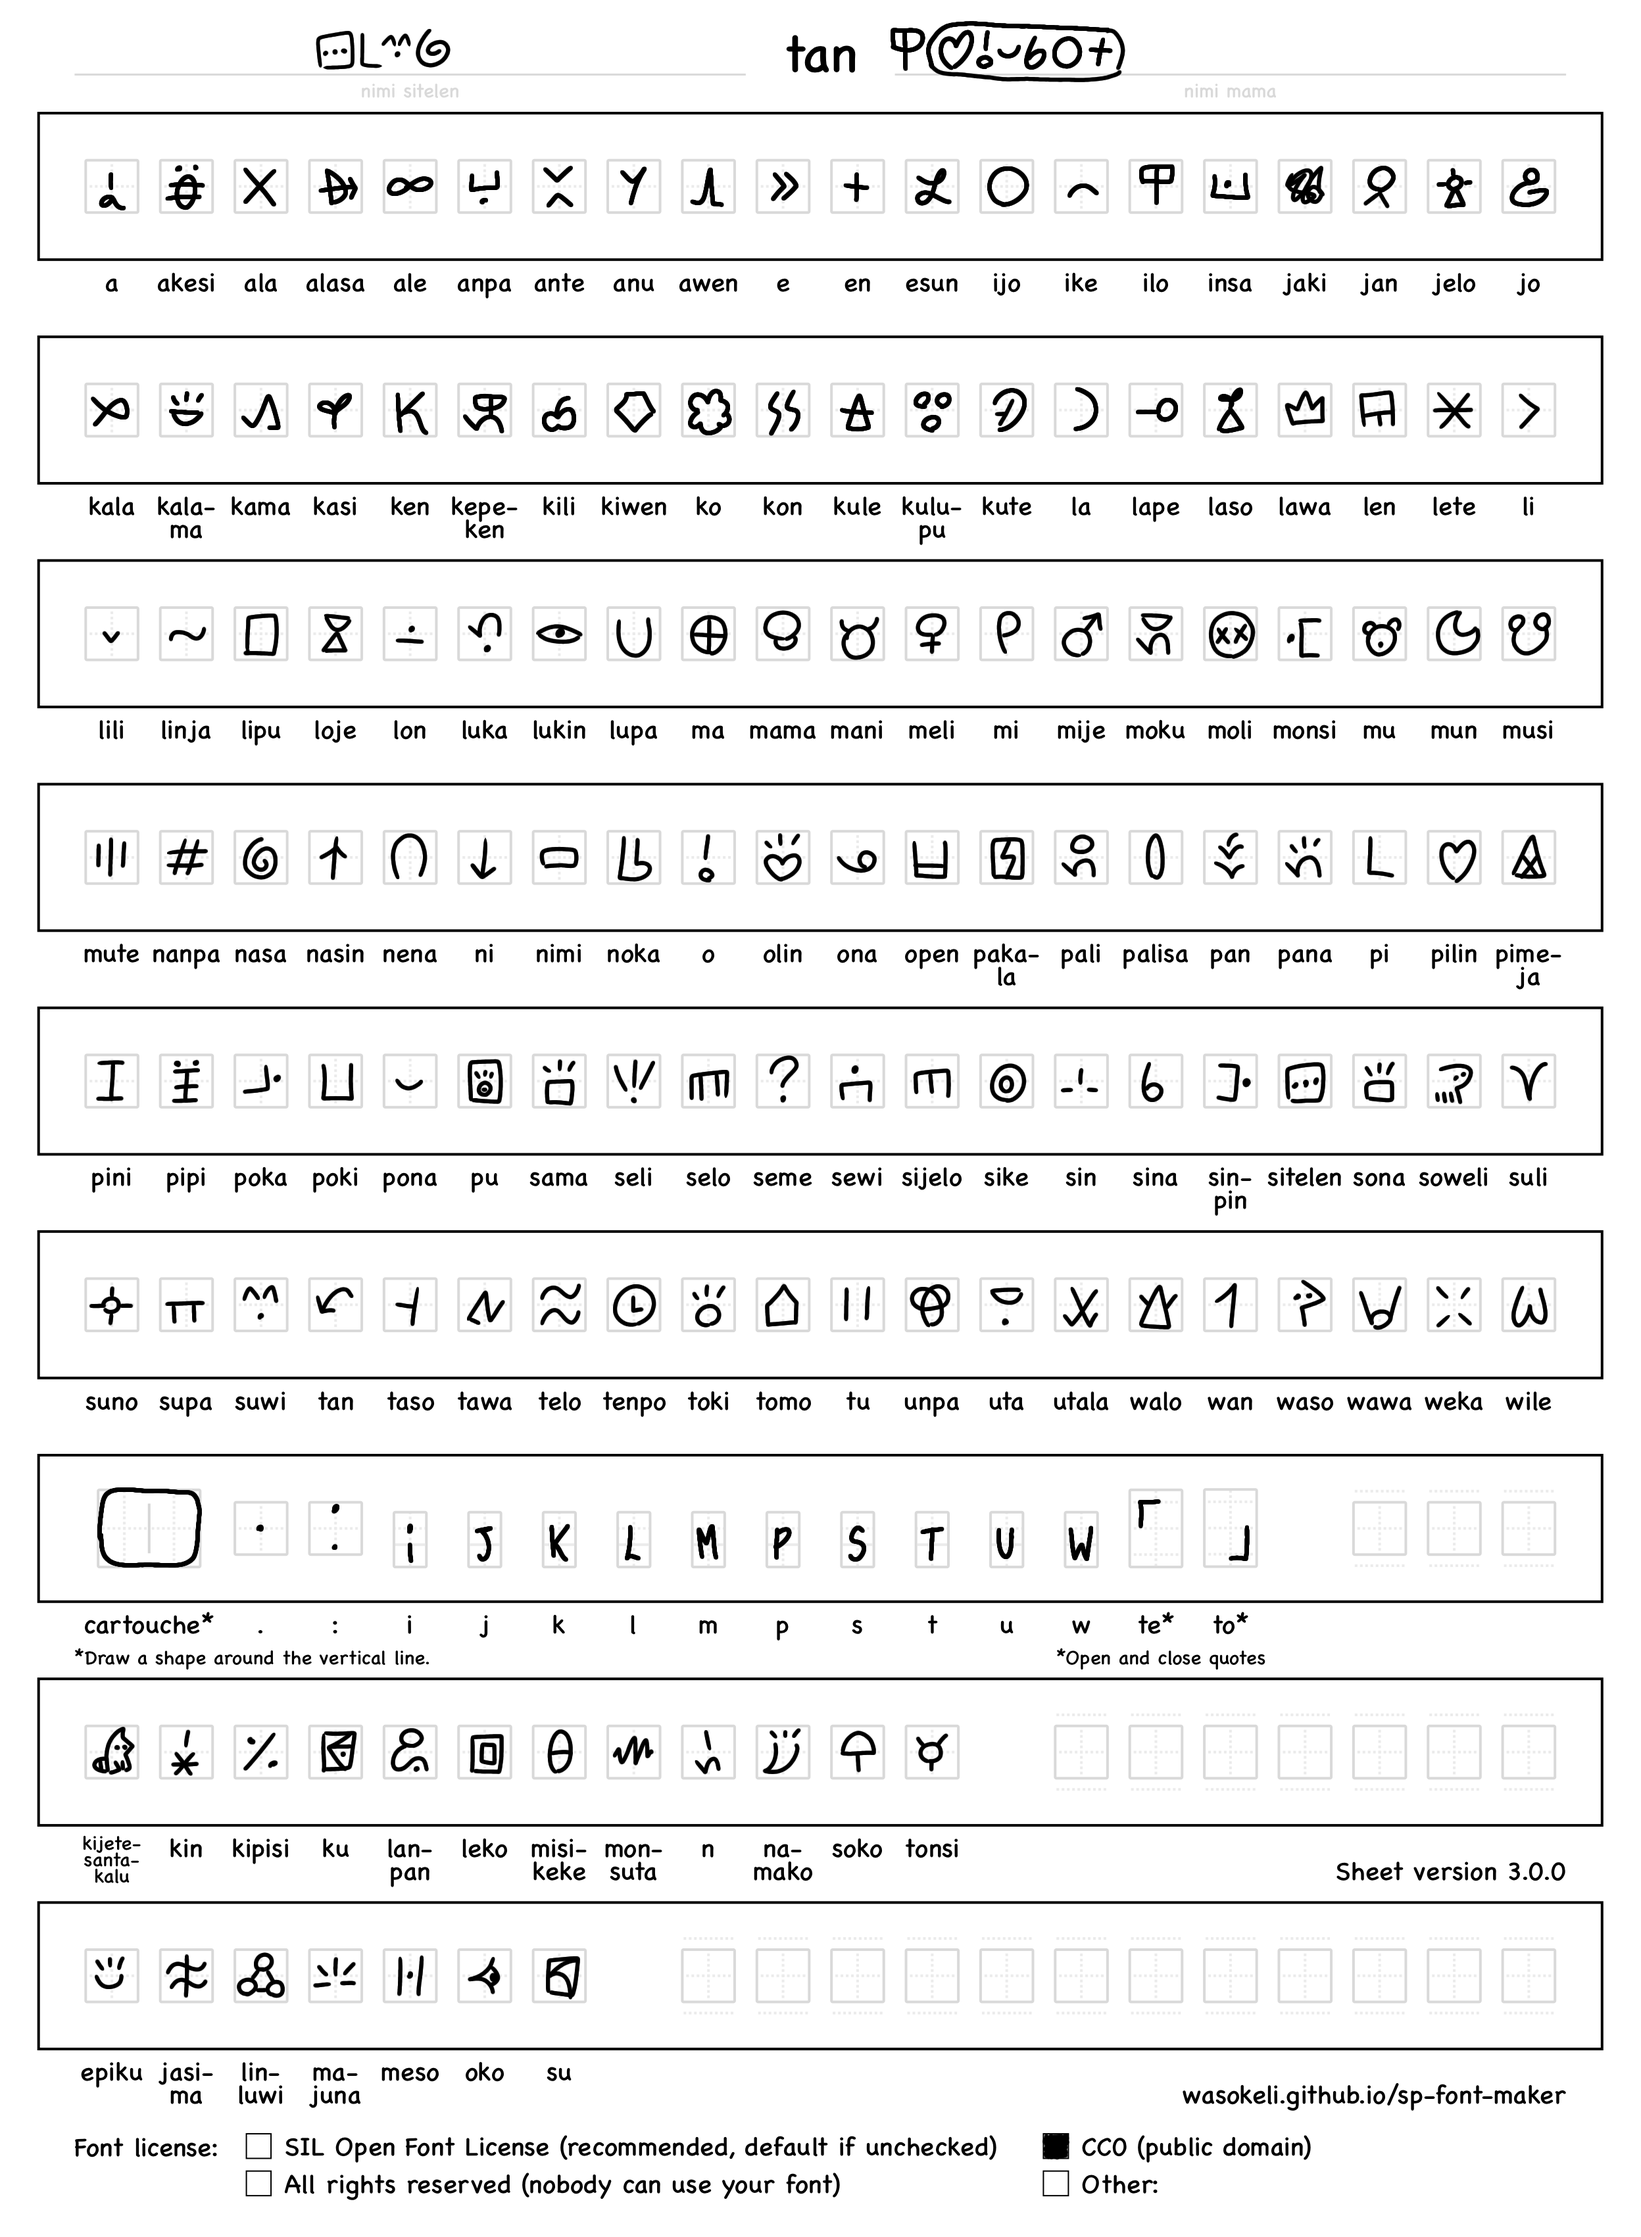
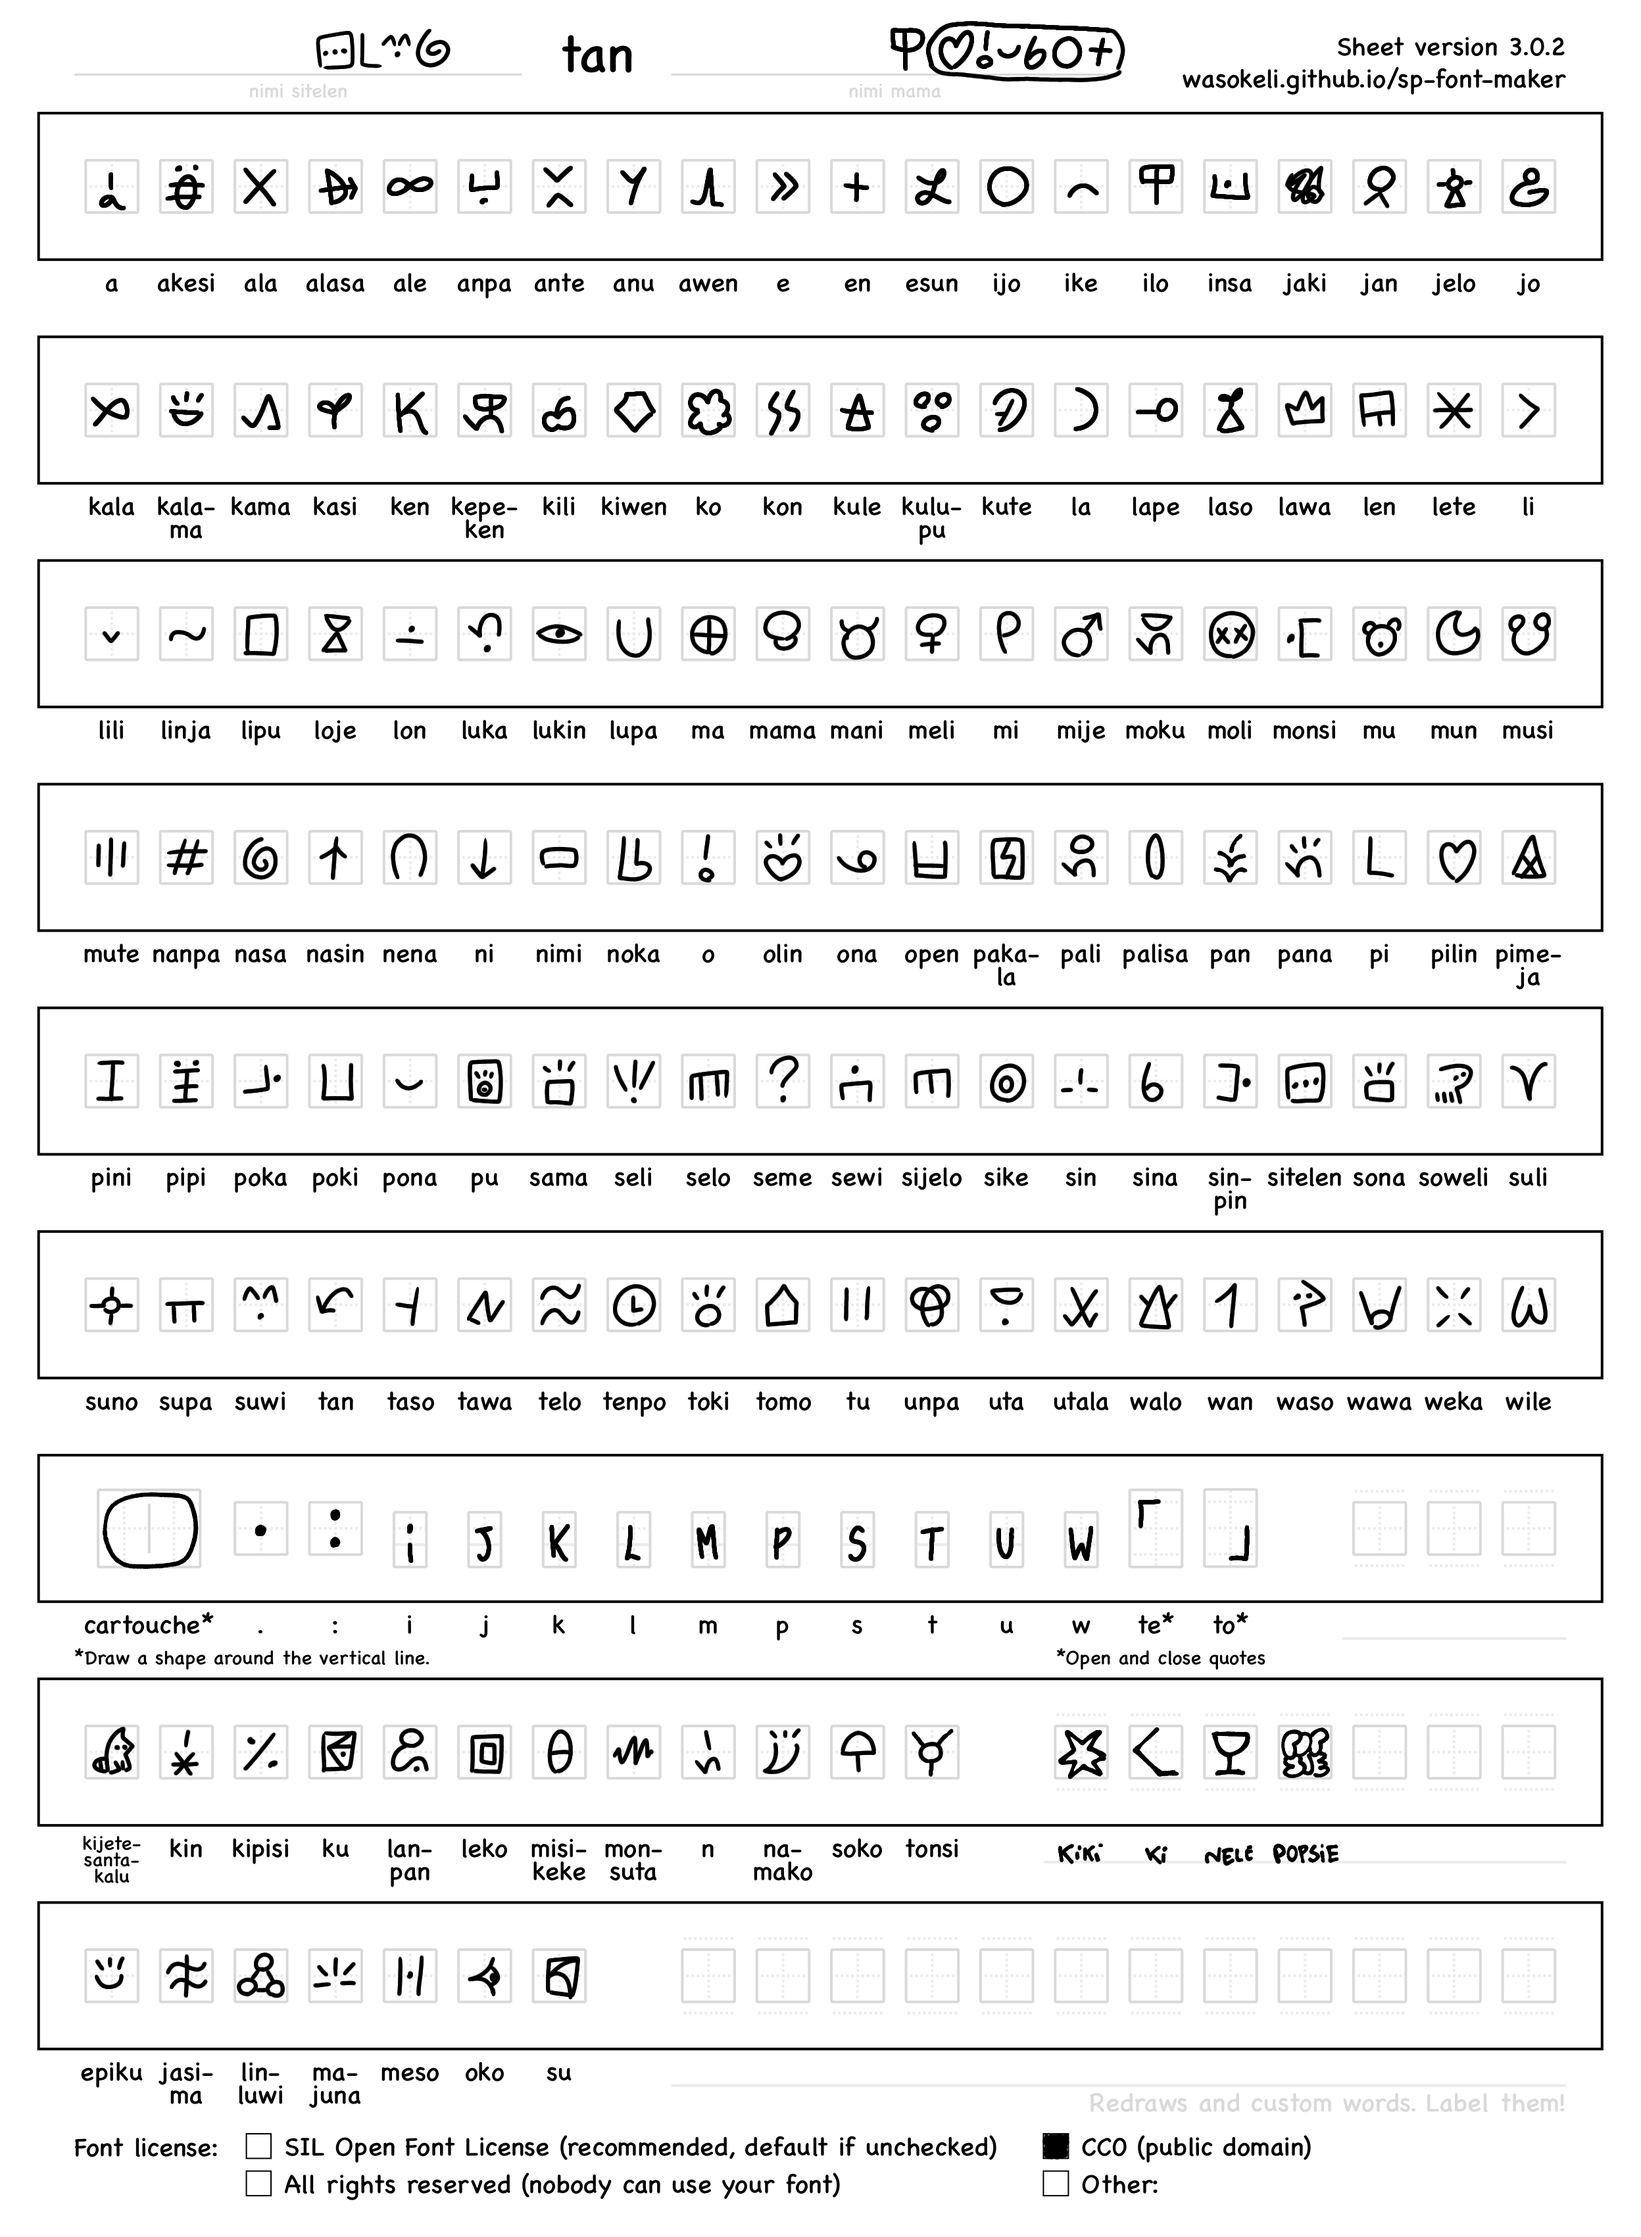
sitelen Popsie: add kiki, ki, nele, Popsie

diff --git a/sp-font-maker/sitelen-pi-suwi-nasa-tan-ilo-Popsie.html b/sp-font-maker/sitelen-pi-suwi-nasa-tan-ilo-Popsie.html
@@ -57,15 +57,15 @@ lili linja lipu loje lon luka lukin lupa ma mama mani meli mi mije moku moli mon
 mute nanpa nasa nasin nena ni nimi noka o olin ona open pakala pali palisa pan pana pi pilin pimeja<br>
 pini pipi poka poki pona pu sama seli selo seme sewi sijelo sike sin sina sinpin sitelen sona soweli suli<br>
 suno supa suwi tan taso tawa telo tenpo toki tomo tu unpa uta utala walo wan waso wawa weka wile<br>
-[].:ijklmpst,uw,te to<br>
-kijetesantakalu kin kipisi ku lanpan leko misikeke monsuta n namako soko tonsi<br>
+[].:ijklmpst,uw,te to　 　 　 　<br>
+kijetesantakalu kin kipisi ku lanpan leko misikeke monsuta n namako soko tonsi　 kiki ki nele Popsie<br>
 epiku jasima linluwi majuna meso oko su<br><br>
 </span>
 <p class="tp">
 <!-- jan [sama olin namako jaki ala] li sitelen e pu kepeken wawa mute. -->
 
 </p>
-<p>License: <a href='https://creativecommons.org/publicdomain/zero/1.0/'>CC0 1.0 Universal</a></p>
+<p>License: <a href='https://creativecommons.org/publicdomain/zero/1.0/'>CC0-1.0</a></p>
 <span class="tp">
 <span style="white-space: break-spaces">
 <!-- telo oko li ken ante e pilin, by jan Ke Tami -->
